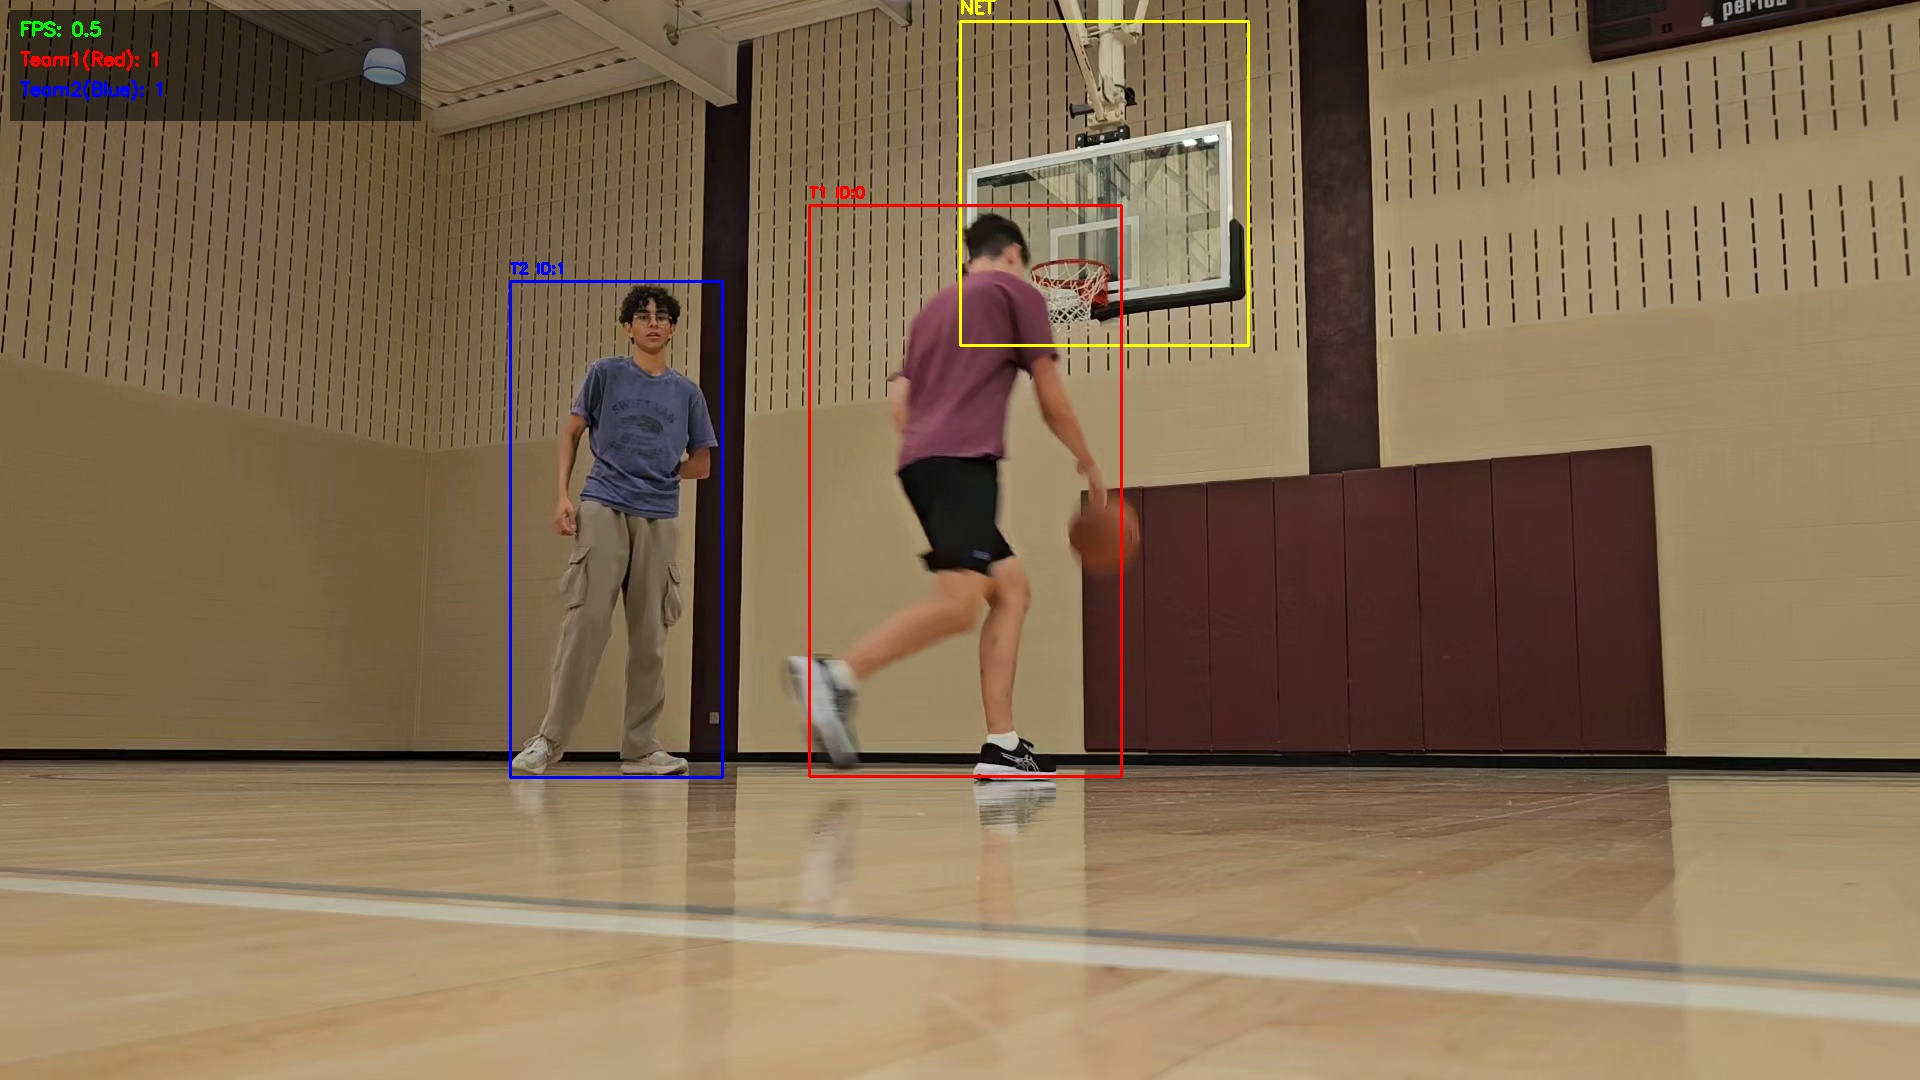
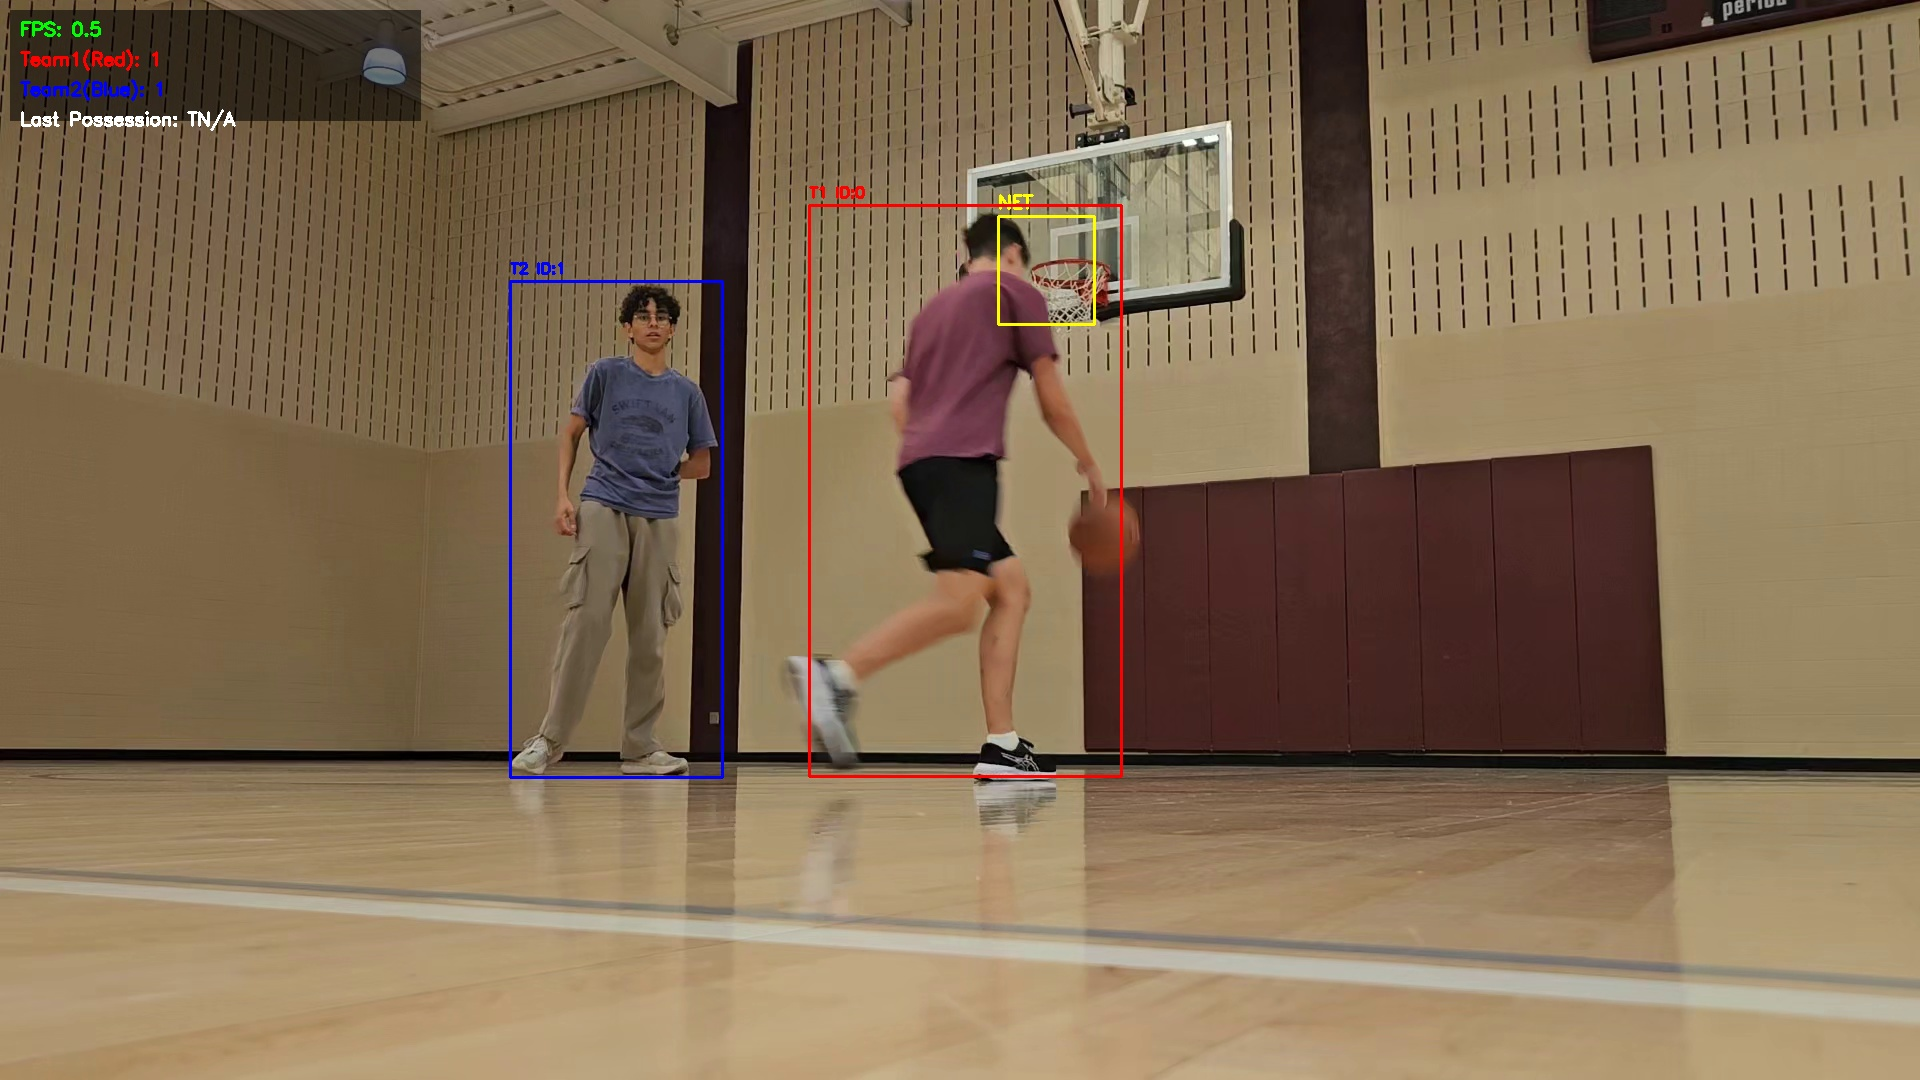
cv done

Changed region(s): [[0.5, 0.1833, 0.6562, 0.3361], [0.5, 0.0, 0.6562, 0.0306], [0.0, 0.0917, 0.125, 0.1222]]

diff --git a/backend/computerVision/tracker.py b/backend/computerVision/tracker.py
@@ -51,7 +51,9 @@ class BasketballTrackerLive:
         self.shot_cooldown = 1.0         # seconds cooldown after shot
         self.shot_team = -1              # team that attempted last shot
 
-
+        self.last_possession_team = -1   # -1 means no last possession
+        self.shot_buffer_frames = 40     # Number of frames to ignore after a shot
+        self.shot_buffer_counter = 0     # Counts frames since last shot
 
     def set_hoop_region(self, frame_width, frame_height):
         """
@@ -259,17 +261,6 @@ class BasketballTrackerLive:
             self.fps = len(self.frame_times) / (self.frame_times[-1] - self.frame_times[0])
     
     def process_frame(self, frame, frame_count, cluster_interval=60):
-        """
-        Process a single frame: detect, track, assign teams, and track shots
-
-        Args:
-            frame: Input frame
-            frame_count: Current frame number
-            cluster_interval: How often to re-cluster teams (in frames) - increased for latency
-
-        Returns:
-            Annotated frame
-        """
         # Update FPS
         self.update_fps()
 
@@ -278,28 +269,30 @@ class BasketballTrackerLive:
             h, w = frame.shape[:2]
             self.set_hoop_region(w, h)
 
+        # Handle shot buffer period
+        if self.shot_buffer_counter > 0:
+            self.shot_buffer_counter -= 1
+            annotated = frame.copy()
+            cv2.putText(annotated, f"SHOT BUFFER - PAUSED ({self.shot_buffer_counter})", (50, 50),
+                    cv2.FONT_HERSHEY_SIMPLEX, 1.0, (0, 0, 255), 3)
+            return annotated, self.last_possession_team
+
         # Check if in cooldown period
         current_time = time.time()
         in_cooldown = (current_time - self.last_shot_attempt_time) < self.shot_cooldown
 
         if in_cooldown:
-            # Skip processing during cooldown to create halt period
             annotated = frame.copy()
-            # Draw cooldown message
             cv2.putText(annotated, "SHOT COOLDOWN - PAUSED", (50, 50),
-                       cv2.FONT_HERSHEY_SIMPLEX, 1.0, (0, 0, 255), 3)
-            return annotated
+                    cv2.FONT_HERSHEY_SIMPLEX, 1.0, (0, 0, 255), 3)
+            return annotated, self.last_possession_team
 
         # Run detection
         results = self.model(frame, conf=self.confidence, classes=[0, 32], verbose=False)[0]
-        # classes=[0, 32] -> 0: person, 32: sports ball
 
-        # Convert to supervision format
         detections = sv.Detections.from_ultralytics(results)
-
-        # Separate players and balls
-        player_mask = results.boxes.cls.cpu().numpy() == 0  # person class
-        ball_mask = results.boxes.cls.cpu().numpy() == 32   # sports ball class
+        player_mask = results.boxes.cls.cpu().numpy() == 0
+        ball_mask = results.boxes.cls.cpu().numpy() == 32
 
         player_detections = detections[player_mask] if player_mask.any() else sv.Detections.empty()
         ball_detections = detections[ball_mask] if ball_mask.any() else sv.Detections.empty()
@@ -307,32 +300,26 @@ class BasketballTrackerLive:
         # Track players
         if len(player_detections) > 0:
             player_detections = self.tracker.update_with_detections(player_detections)
-
-            # Extract embeddings for team clustering (skip if shot in progress for latency)
             if not self.shot_in_progress:
                 for i, (bbox, track_id) in enumerate(zip(player_detections.xyxy,
-                                                          player_detections.tracker_id)):
+                                                        player_detections.tracker_id)):
                     embedding = self.extract_color_histogram(frame, bbox)
                     self.player_embeddings[track_id].append(embedding)
-
-                    # Limit embedding history to save memory
                     if len(self.player_embeddings[track_id]) > 50:
                         self.player_embeddings[track_id].pop(0)
 
-        # Periodically re-cluster teams (less frequent for latency)
+        # Periodically re-cluster teams
         if frame_count % cluster_interval == 0 and len(self.player_embeddings) > 0 and not self.shot_in_progress:
             self.team_assignments = self.cluster_teams(self.player_embeddings)
 
         # Ball possession and shot tracking
         ball_overlaps_hoop = False
         if len(ball_detections) > 0 and len(player_detections) > 0:
-            ball_bbox = ball_detections.xyxy[0]  # Assume single ball
+            ball_bbox = ball_detections.xyxy[0]
 
-            # Check if ball overlaps hoop for visual feedback
             if self.hoop_bbox:
                 ball_overlaps_hoop = self.check_bbox_overlap(ball_bbox, self.hoop_bbox)
 
-            # Check possession
             current_possession = None
             for player_bbox, track_id in zip(player_detections.xyxy, player_detections.tracker_id):
                 if self.check_bbox_overlap(ball_bbox, player_bbox):
@@ -348,89 +335,27 @@ class BasketballTrackerLive:
                 self.last_shot_attempt_time = current_time
                 print(f"Shot attempt detected by Team {self.shot_team + 1}")
 
-            # Detect shot success: ball bbox overlaps hoop during shot attempt
+            # Detect shot success: ball overlaps hoop during shot attempt
             if self.shot_in_progress and self.hoop_bbox and ball_overlaps_hoop:
                 if self.shot_team >= 0:
                     self.team_shots[self.shot_team] += 1
                     print(f"SHOT MADE by Team {self.shot_team + 1}! Total: {self.team_shots[self.shot_team]}")
                 self.shot_in_progress = False
-                self.last_shot_attempt_time = current_time  # Start cooldown
+                self.shot_buffer_counter = self.shot_buffer_frames  # Start buffer
+                self.last_shot_attempt_time = current_time
 
             self.ball_possession = current_possession
 
-        # Annotate frame
+        # Update last possession team
+        if self.ball_possession is not None:
+            self.last_possession_team = self.team_assignments.get(self.ball_possession, -1)
+
+        # Annotate frame (rest of your existing code...)
         annotated = frame.copy()
+        # ...drawing code stays the same...
 
-        # Draw hoop region
-        if self.hoop_bbox:
-            x1, y1, x2, y2 = self.hoop_bbox
-            cv2.rectangle(annotated, (x1, y1), (x2, y2), (255, 255, 0), 3)  # Cyan for hoop
-            cv2.putText(annotated, "HOOP", (x1, y1 - 10),
-                       cv2.FONT_HERSHEY_SIMPLEX, 0.7, (255, 255, 0), 2)
+        return annotated, self.last_possession_team
 
-        # Draw player boxes with team colors
-        if len(player_detections) > 0:
-            for i, (bbox, track_id) in enumerate(zip(player_detections.xyxy,
-                                                      player_detections.tracker_id)):
-                team = self.team_assignments.get(track_id, -1)
-                color = self.team_colors[team]
-
-                # Highlight player with possession
-                if track_id == self.ball_possession:
-                    cv2.rectangle(annotated, (int(bbox[0]), int(bbox[1])), (int(bbox[2]), int(bbox[3])), (0, 255, 0), 4)
-
-                # Draw box
-                x1, y1, x2, y2 = map(int, bbox)
-                cv2.rectangle(annotated, (x1, y1), (x2, y2), color, 2)
-
-                # Draw label
-                team_name = f"Team {team + 1}" if team >= 0 else "Unassigned"
-                possession_indicator = " (BALL)" if track_id == self.ball_possession else ""
-                label = f"{team_name}{possession_indicator}"
-
-                cv2.putText(annotated, label, (x1, y1 - 10),
-                           cv2.FONT_HERSHEY_SIMPLEX, 0.5, color, 2)
-
-        # Draw ball
-        if len(ball_detections) > 0:
-            for bbox in ball_detections.xyxy:
-                x1, y1, x2, y2 = map(int, bbox)
-                # Change ball color to green if overlapping hoop
-                ball_color = (0, 255, 0) if ball_overlaps_hoop else (0, 255, 255)
-                cv2.rectangle(annotated, (x1, y1), (x2, y2), ball_color, 3)
-                cv2.putText(annotated, "BALL", (x1, y1 - 10),
-                           cv2.FONT_HERSHEY_SIMPLEX, 0.7, ball_color, 2)
-
-        # Add stats overlay
-        team_counts = defaultdict(int)
-        for team in self.team_assignments.values():
-            team_counts[team] += 1
-
-        # Create semi-transparent overlay for stats
-        overlay = annotated.copy()
-        cv2.rectangle(overlay, (10, 10), (500, 150), (0, 0, 0), -1)
-        cv2.addWeighted(overlay, 0.6, annotated, 0.4, 0, annotated)
-
-        # Draw stats text
-        stats_y = 35
-        cv2.putText(annotated, f"FPS: {self.fps:.1f}", (20, stats_y),
-                   cv2.FONT_HERSHEY_SIMPLEX, 0.6, (0, 255, 0), 2)
-        cv2.putText(annotated, f"Team 1: {team_counts[0]} players | Shots: {self.team_shots[0]}",
-                   (20, stats_y + 30), cv2.FONT_HERSHEY_SIMPLEX, 0.6, (255, 0, 0), 2)
-        cv2.putText(annotated, f"Team 2: {team_counts[1]} players | Shots: {self.team_shots[1]}",
-                   (20, stats_y + 60), cv2.FONT_HERSHEY_SIMPLEX, 0.6, (0, 0, 255), 2)
-
-        # Shot status
-        status_text = "SHOT IN PROGRESS" if self.shot_in_progress else "READY"
-        cv2.putText(annotated, f"Status: {status_text}", (20, stats_y + 90),
-                   cv2.FONT_HERSHEY_SIMPLEX, 0.6, (255, 255, 255), 2)
-
-        # Instructions
-        cv2.putText(annotated, "Press 'q' to quit, 'r' to reset teams, 'h' to re-detect rim",
-                   (10, annotated.shape[0] - 20),
-                   cv2.FONT_HERSHEY_SIMPLEX, 0.5, (255, 255, 255), 1)
-
-        return annotated
     
     def run_webcam(self, camera_id=0, cluster_interval=60):
         """

diff --git a/backend/computerVision/newtrack.py b/backend/computerVision/newtrack.py
@@ -50,7 +50,11 @@ class BasketballTrackerSageMaker:
         # Hardcoded hoop / net in normalized coordinates (left, top, right, bottom)
         # These were picked based on your JumpStart outputs (top-right-ish). Adjust if needed.
         # We'll convert to pixels per frame when drawing.
-        self.hoop_bbox_norm = (0.5, 0.02, 0.65, 0.32)
+        self.hoop_bbox_norm = (0.52, 0.2, 0.57, 0.3)
+
+        self.last_possession_team = -1   # -1 means no last possession
+        self.shot_buffer_frames = 40     # Number of frames to ignore after a shot
+        self.shot_buffer_counter = 0     # Counts frames since last shot
 
         print("SageMaker tracker initialized!")
 
@@ -66,7 +70,7 @@ class BasketballTrackerSageMaker:
             )
             result = json.loads(response['Body'].read())
             # debug: prints first 1000 chars
-            print("SageMaker raw output:", json.dumps(result, indent=2)[:1000])
+            #print("SageMaker raw output:", json.dumps(result, indent=2)[:1000])
             return self.parse_sagemaker_response(result, frame.shape)
         except Exception as e:
             print(f"SageMaker inference error: {e}")
@@ -117,10 +121,8 @@ class BasketballTrackerSageMaker:
             area = width * height
             ratio = width / (height + 1e-6)
 
-            # smaller and roughly square
-            if area < 0.0005 or area > 0.02:
-                return False
-            if 0.75 <= ratio <= 1.25:
+            # Accept anything reasonably small and not too stretched
+            if area > 0 and 0.5 <= ratio <= 2.0:
                 return True
             return False
 
@@ -316,7 +318,7 @@ class BasketballTrackerSageMaker:
         self.team_assignments = assignments
 
     def process_frame(self, frame, frame_count, cluster_interval=30):
-        # FPS update
+        # --- FPS update ---
         now = time.time()
         self.frame_times.append(now)
         if len(self.frame_times) > 30:
@@ -324,14 +326,14 @@ class BasketballTrackerSageMaker:
         if len(self.frame_times) > 1:
             self.fps = len(self.frame_times) / (self.frame_times[-1] - self.frame_times[0])
 
-        # inference
+        # --- Inference ---
         detections = self.query_sagemaker_endpoint(frame)
 
-        # track players
+        # --- Track players ---
         player_bboxes = [d['bbox'] for d in detections['players']]
         self.player_tracker = self.simple_track(player_bboxes, self.player_tracker, max_distance=60)
 
-        # update embeddings per track (rolling window)
+        # --- Update embeddings per track ---
         for bbox_tuple, track_id in self.player_tracker.items():
             bbox = list(bbox_tuple)
             emb = self.extract_color_histogram(frame, bbox)
@@ -339,41 +341,68 @@ class BasketballTrackerSageMaker:
             if len(self.player_embeddings[track_id]) > 60:
                 self.player_embeddings[track_id].pop(0)
 
-        # run clustering every cluster_interval frames (or when new players appear)
+        # --- Run clustering ---
         if frame_count % cluster_interval == 0:
             self.cluster_teams()
 
-        # Annotate
+        # --- Annotate frame ---
         annotated = frame.copy()
-
-        # draw hardcoded hoop in pixels
         h, w = frame.shape[:2]
+
+        # Draw hardcoded hoop
         hl, ht, hr, hb = self.hoop_bbox_norm
-        hx1 = int(max(0, hl) * w)
-        hy1 = int(max(0, ht) * h)
-        hx2 = int(min(1.0, hr) * w)
-        hy2 = int(min(1.0, hb) * h)
+        hx1, hy1 = int(hl * w), int(ht * h)
+        hx2, hy2 = int(hr * w), int(hb * h)
         cv2.rectangle(annotated, (hx1, hy1), (hx2, hy2), (0, 255, 255), 2)
         cv2.putText(annotated, "NET", (hx1, max(0, hy1 - 8)), cv2.FONT_HERSHEY_SIMPLEX, 0.6, (0,255,255), 2)
 
-        # Draw players with their team colors (force assignment)
+        # Draw players
         for bbox_tuple, track_id in self.player_tracker.items():
             bbox = list(map(int, bbox_tuple))
-            team = self.team_assignments.get(track_id, 0)  # default 0 if not yet clustered
+            team = self.team_assignments.get(track_id, 0)
             color = self.team_colors[team]
             x1, y1, x2, y2 = bbox
             cv2.rectangle(annotated, (x1, y1), (x2, y2), color, 2)
             cv2.putText(annotated, f"T{team+1} ID:{track_id}", (x1, max(0, y1 - 8)),
                         cv2.FONT_HERSHEY_SIMPLEX, 0.5, color, 2)
 
-        # Draw balls (orange)
+        # --- Draw balls & detect scoring ---
+        score_made = False
+        possession_team = self.last_possession_team
+
         for ball in detections['balls']:
             bx1, by1, bx2, by2 = map(int, ball['bbox'])
             cv2.rectangle(annotated, (bx1, by1), (bx2, by2), self.ball_color, 2)
             cv2.putText(annotated, "BALL", (bx1, max(0, by1 - 8)),
                         cv2.FONT_HERSHEY_SIMPLEX, 0.6, self.ball_color, 2)
 
-        # stats overlay
+            # ball center
+            ball_cx = (bx1 + bx2) / 2
+            ball_cy = (by1 + by2) / 2
+
+            # Determine if ball overlaps hoop (score) & respect buffer
+            if self.shot_buffer_counter == 0 and hx1 <= ball_cx <= hx2 and hy1 <= ball_cy <= hy2:
+                score_made = True
+                self.shot_buffer_counter = self.shot_buffer_frames
+
+            # Determine last possession: closest player to ball
+            min_dist = float('inf')
+            for bbox_tuple, track_id in self.player_tracker.items():
+                x1, y1, x2, y2 = bbox_tuple
+                px, py = (x1 + x2) / 2, (y1 + y2) / 2
+                d = np.hypot(ball_cx - px, ball_cy - py)
+                if d < min_dist:
+                    min_dist = d
+                    possession_team = self.team_assignments.get(track_id, -1)
+
+        # Update buffer counter
+        if self.shot_buffer_counter > 0:
+            self.shot_buffer_counter -= 1
+
+        # Update last possession
+        self.last_possession_team = possession_team
+
+        # --- Stats overlay ---
         team_counts = defaultdict(int)
         for t in self.team_assignments.values():
             team_counts[t] += 1
@@ -385,8 +414,11 @@ class BasketballTrackerSageMaker:
         cv2.putText(annotated, f"FPS: {self.fps:.1f}", (20, 35), cv2.FONT_HERSHEY_SIMPLEX, 0.6, (0,255,0), 2)
         cv2.putText(annotated, f"Team1(Red): {team_counts.get(0,0)}", (20, 65), cv2.FONT_HERSHEY_SIMPLEX, 0.6, self.team_colors[0], 2)
         cv2.putText(annotated, f"Team2(Blue): {team_counts.get(1,0)}", (20, 95), cv2.FONT_HERSHEY_SIMPLEX, 0.6, self.team_colors[1], 2)
+        cv2.putText(annotated, f"Last Possession: T{possession_team+1 if possession_team>=0 else 'N/A'}",
+                    (20, 125), cv2.FONT_HERSHEY_SIMPLEX, 0.6, (255,255,255), 2)
 
-        return annotated
+        return annotated, score_made, possession_team
+
 
     def process_frames_directory(self, frames_dir, output_dir='backend/computerVision/annotated_frames', fps=30):
         frames_path = Path(frames_dir)
@@ -404,7 +436,9 @@ class BasketballTrackerSageMaker:
                 print(f"WARNING: Could not read {frame_file}, skipping...")
                 continue
 
-            annotated = self.process_frame(frame, frame_count)
+            annotated, score_made, possession = self.process_frame(frame, frame_count)
+            print(f"Shot Made: {score_made}")
+            print(f"Possession: {possession}")
             out_path = os.path.join(output_dir, frame_file.name)  # keep original filename
             cv2.imwrite(out_path, annotated)
 
